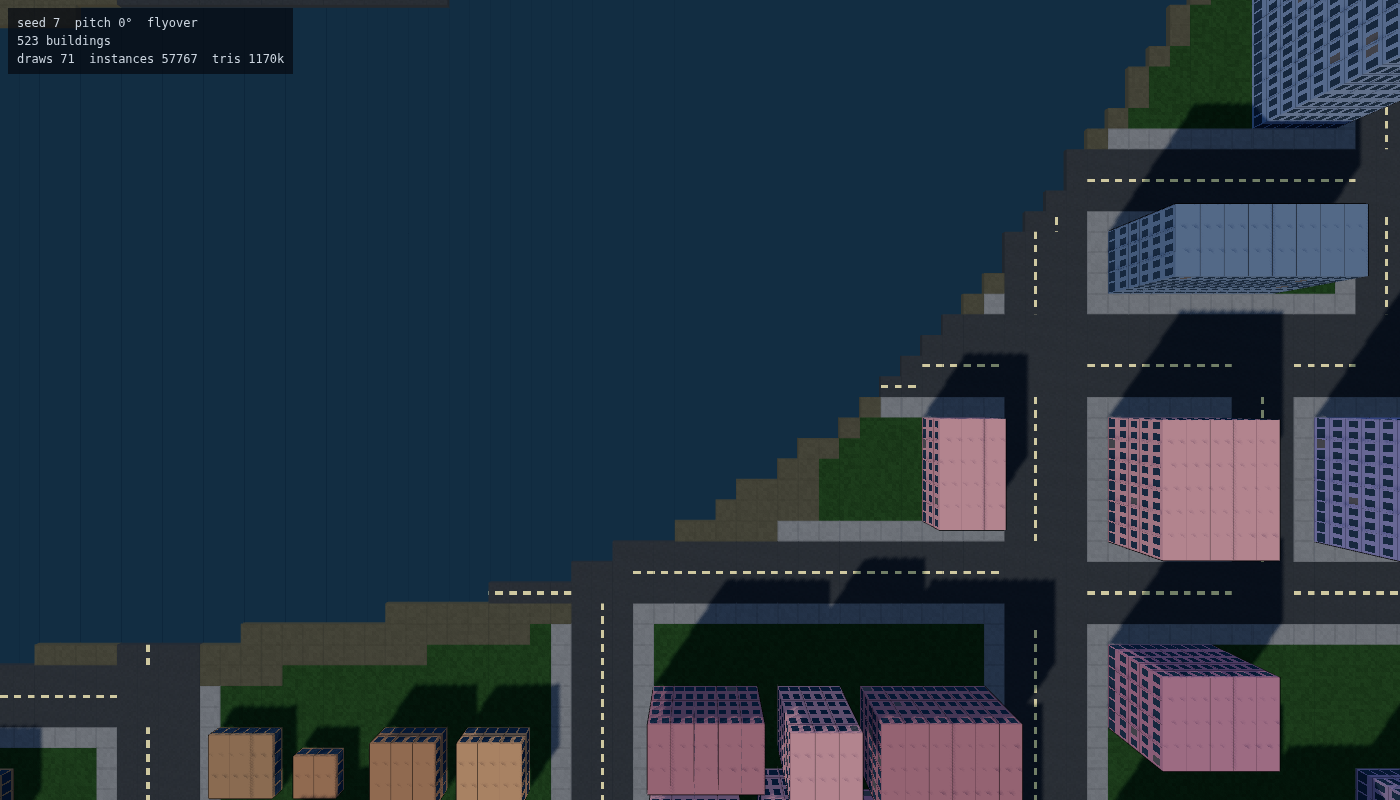
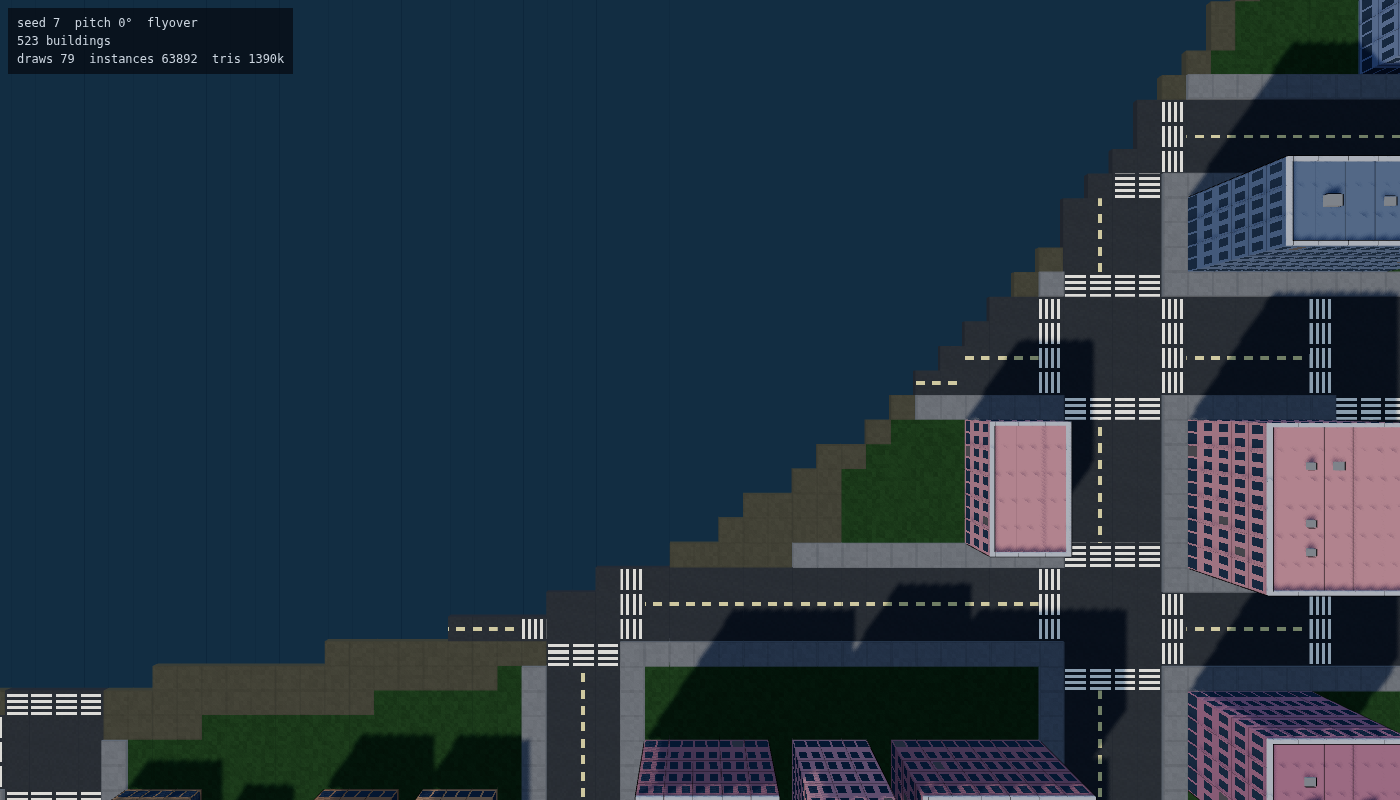
3D: the detail pass — parapets, roof clutter, kerbs, crossings
From a camera hanging straight down, roofs are most of what you see of a
building, and a flat coloured rectangle is where a city stops looking built.
That was the biggest remaining gap. Three things closed it.

PARAPETS. A lip around every roof, on the sides with a non-building neighbour
only, so a block is rimmed at its outline rather than gridded tile by tile.
Real geometry, ~6k instances in one draw. Does more for how a building reads
than anything else here.

ROOFTOP CLUTTER. Plant units, vents and hatches on INTERIOR roof tiles at
hash2(tx,ty,61) against the same thresholds the 2D roof painter uses.
Interior-only is what stops an air-conditioning unit hanging over the street.

KERBS. Pavement stands 3px above the carriageway — and this went into
volume.ts rather than the renderer, because it is real. It sits inside every
mover's step-up allowance so nobody is stopped by it, and it is the surface a
car mounting the pavement actually climbs. It is also what makes a street read
as a street instead of a coloured stripe.

CROSSINGS. Zebra stripes on road tiles approaching a junction, anchored to
junctions — road wide on both axes — rather than to kerbs. A kerb test stripes
the whole length of every street instead of its mouth, because every kerbside
tile touches a pavement.

Worth recording: the first crossing function returned 0 on every path. It
typechecked, it rendered, and it did nothing — dead code in a render path
[…]

diff --git a/client/src/three/cityView.ts b/client/src/three/cityView.ts
@@ -7,6 +7,7 @@ import {
   type VolumeGrid,
 } from 'shared';
 import palette from 'shared/data/palette.json';
+import { hash2 } from '../render/noise.js';
 import { addOutline, toonMaterial } from './toon.js';
 import { facadeMaterial, groundMaterial, roadMaterial, setFacadeNight } from './facade.js';
 
@@ -175,6 +176,38 @@ export class CityView {
       const t = this.map.tiles[ty * W + tx] as number;
       return t === 1 || t === 7 || t === 13;
     };
+    /** Carriageway width and length through a tile, both axes. */
+    const runs = (tx: number, ty: number): [number, number] => {
+      let up = 0;
+      let down = 0;
+      let left = 0;
+      let right = 0;
+      while (isRoad(tx, ty - up - 1) && up < 12) up++;
+      while (isRoad(tx, ty + down + 1) && down < 12) down++;
+      while (isRoad(tx - left - 1, ty) && left < 12) left++;
+      while (isRoad(tx + right + 1, ty) && right < 12) right++;
+      return [up + down + 1, left + right + 1];
+    };
+    /** Wide both ways: where two streets actually meet. */
+    const isJunction = (tx: number, ty: number): boolean => {
+      if (!isRoad(tx, ty)) return false;
+      const [runV, runH] = runs(tx, ty);
+      return runV > 6 && runH > 6;
+    };
+    /**
+     * Crossings, on the road tiles that approach a junction.
+     *
+     * Returns 1 for stripes across an east-west street, 2 across a
+     * north-south one. Anchored to junctions rather than to kerbs: every
+     * kerbside tile touches a pavement, so a kerb test would stripe the whole
+     * length of every street instead of its mouth.
+     */
+    const crossing = (tx: number, ty: number): number => {
+      if (!isRoad(tx, ty) || isJunction(tx, ty)) return 0;
+      if (isJunction(tx - 1, ty) || isJunction(tx + 1, ty)) return 1;
+      if (isJunction(tx, ty - 1) || isJunction(tx, ty + 1)) return 2;
+      return 0;
+    };
     /** 0 plain, 1 centre line along x, 2 centre line along y. */
     const roadMark = (tx: number, ty: number): number => {
       if (!isRoad(tx, ty)) return 0;
@@ -229,6 +262,9 @@ export class CityView {
       return list;
     };
 
+    /** Roof height per tile, filled as the grid is walked. */
+    const heightAt = new Float64Array(W * H);
+
     const m = new THREE.Matrix4();
     for (let ty = 0; ty < H; ty++) {
       for (let tx = 0; tx < W; tx++) {
@@ -249,8 +285,14 @@ export class CityView {
           color = (LAYERS[k] as Layer).color;
           solid = k === 'deck';
           if (k === 'road') {
-            const mark = roadMark(tx, ty);
-            if (mark) key = mark === 1 ? 'roadMarkX' : 'roadMarkY';
+            // A road tile touching a pavement across its short axis is the
+            // mouth of a junction — where a crossing goes.
+            const cross = crossing(tx, ty);
+            if (cross) key = cross === 1 ? 'crossX' : 'crossY';
+            else {
+              const mark = roadMark(tx, ty);
+              if (mark) key = mark === 1 ? 'roadMarkX' : 'roadMarkY';
+            }
           }
         }
         const list = bucket(key, color, solid);
@@ -273,9 +315,12 @@ export class CityView {
             (span.top * Z_SCALE) - h / 2,
           );
           list.push(m.clone());
+          if (tile === 3) heightAt[idx] = span.top * Z_SCALE;
         }
       }
     }
+
+    this.buildRoofDetail(buildingOf, heightAt);
 
     const box = new THREE.BoxGeometry(1, 1, 1);
     for (const [key, mats] of buckets) {
@@ -294,6 +339,10 @@ export class CityView {
               ? roadMaterial(color, 1)
               : key === 'roadMarkY'
                 ? roadMaterial(color, 2)
+                : key === 'crossX'
+                  ? roadMaterial(color, 3)
+                  : key === 'crossY'
+                    ? roadMaterial(color, 4)
                 : key === 'grass'
                   ? groundMaterial(color, 0.20)
                   : key === 'pavement'
@@ -328,6 +377,93 @@ export class CityView {
     // flats at night from a silhouette into somewhere people live.
     setFacadeNight(this.scene, t);
     this.night = t;
+  }
+
+  /**
+   * Parapets and rooftop clutter.
+   *
+   * From a camera hanging straight over the city, roofs are most of what you
+   * see of a building — and a flat coloured rectangle is where a city stops
+   * looking built. The 2D tile layer already knows this: it draws a bright
+   * lip along the sun-facing roof edges, a dark one along the others, and
+   * scatters units, vents and hatches across the interior. Same idea here, as
+   * real geometry, from the same hash and the same thresholds.
+   *
+   * A parapet goes on every roof tile with a non-building neighbour, on that
+   * side only, so a block of buildings is rimmed at its outline rather than
+   * gridded tile by tile. Clutter goes only on interior tiles, which is what
+   * stops an air-conditioning unit hanging over the street.
+   */
+  private buildRoofDetail(buildingOf: Int32Array, heightAt: Float64Array): void {
+    const W = this.map.widthTiles;
+    const H = this.map.heightTiles;
+    const T = TILE_SIZE;
+    const isBuilding = (tx: number, ty: number): boolean =>
+      tx >= 0 && ty >= 0 && tx < W && ty < H && this.map.tiles[ty * W + tx] === 3;
+
+    const parapets: THREE.Matrix4[] = [];
+    const clutter: THREE.Matrix4[] = [];
+    const m = new THREE.Matrix4();
+    const LIP_H = 3.2;
+    const LIP_W = 2.4;
+
+    for (let ty = 0; ty < H; ty++) {
+      for (let tx = 0; tx < W; tx++) {
+        const idx = ty * W + tx;
+        if (this.map.tiles[idx] !== 3) continue;
+        const top = heightAt[idx] as number;
+        if (top <= 0) continue;
+        const cx = (tx + 0.5) * T;
+        const cy = (ty + 0.5) * T;
+
+        const openN = !isBuilding(tx, ty - 1);
+        const openS = !isBuilding(tx, ty + 1);
+        const openW = !isBuilding(tx - 1, ty);
+        const openE = !isBuilding(tx + 1, ty);
+
+        const lip = (x: number, y: number, w: number, d: number): void => {
+          m.makeScale(w, d, LIP_H);
+          m.setPosition(x, y, top + LIP_H / 2);
+          parapets.push(m.clone());
+        };
+        if (openN) lip(cx, cy - T / 2 + LIP_W / 2, T, LIP_W);
+        if (openS) lip(cx, cy + T / 2 - LIP_W / 2, T, LIP_W);
+        if (openW) lip(cx - T / 2 + LIP_W / 2, cy, LIP_W, T);
+        if (openE) lip(cx + T / 2 - LIP_W / 2, cy, LIP_W, T);
+
+        // Interior only — same rule and same salt the 2D roof painter uses.
+        if (openN || openS || openE || openW) continue;
+        const roll = hash2(tx, ty, 61);
+        if (roll > 0.86) {
+          m.makeScale(T * 0.5, T * 0.38, 6);
+          m.setPosition(cx, cy, top + 3);
+          clutter.push(m.clone());
+        } else if (roll > 0.74) {
+          m.makeScale(T * 0.25, T * 0.25, 4);
+          m.setPosition(cx, cy, top + 2);
+          clutter.push(m.clone());
+        } else if (roll > 0.68) {
+          m.makeScale(T * 0.36, T * 0.3, 2);
+          m.setPosition(cx, cy, top + 1);
+          clutter.push(m.clone());
+        }
+      }
+    }
+
+    const box = new THREE.BoxGeometry(1, 1, 1);
+    const add = (mats: THREE.Matrix4[], color: number, outline: number): void => {
+      if (mats.length === 0) return;
+      const mesh = new THREE.InstancedMesh(box, toonMaterial(color), mats.length);
+      mesh.castShadow = true;
+      mesh.receiveShadow = true;
+      mats.forEach((mm, i) => mesh.setMatrixAt(i, mm));
+      mesh.instanceMatrix.needsUpdate = true;
+      this.instanceCount += mats.length;
+      this.scene.add(mesh);
+      addOutline(mesh, this.scene, outline);
+    };
+    add(parapets, hex(palette.roofEdgeLight ?? '#9aa0aa'), 0.4);
+    add(clutter, hex(palette.roofUnit ?? '#6b7079'), 0.5);
   }
 
   resize(width: number, height: number): void {

diff --git a/shared/src/world/volume.ts b/shared/src/world/volume.ts
@@ -2,6 +2,7 @@ import {
   T_BRIDGE,
   T_BUILDING,
   T_RAMP,
+  T_SIDEWALK,
   T_TREES,
   T_WATER,
   TILE_SIZE,
@@ -51,6 +52,15 @@ export const BRIDGE_DECK_THICKNESS = 6;
 export const RAMP_Z = 12;
 /** Trees are solid to a mover but not to a helicopter passing overhead. */
 export const TREE_Z = 36;
+/**
+ * Kerb height: how far the pavement stands above the carriageway.
+ *
+ * Real, not decorative. It is inside every mover's step-up allowance so
+ * nobody is stopped by it, but it is what makes a street read as a street
+ * rather than as a coloured stripe, and it is the surface a car mounting the
+ * pavement actually climbs.
+ */
+export const KERB_Z = 3;
 
 export interface Span {
   bottom: number;
@@ -260,9 +270,12 @@ function columnFor(map: CityMap, i: number, buildingZ: number): { spans: Span[];
     case T_RAMP:
       return { spans: [{ bottom: EARTH, top: RAMP_Z }], ground: RAMP_Z };
 
+    case T_SIDEWALK:
+      return { spans: [{ bottom: EARTH, top: KERB_Z }], ground: KERB_Z };
+
     default:
-      // Road, sidewalk, park, lot, sand, runway, shop floor, field: street
-      // level, walkable, open sky.
+      // Road, park, lot, sand, runway, shop floor, field: street level,
+      // walkable, open sky.
       return { spans: [{ bottom: EARTH, top: 0 }], ground: 0 };
   }
 }

diff --git a/client/src/three/facade.ts b/client/src/three/facade.ts
@@ -217,7 +217,14 @@ export function roadMaterial(color: number, mark: number, lineColor = 0xd8cf94):
            // Grain first, so the marking sits on the tarmac rather than under.
            float grain = road_hash(floor(vWorld.xy * 0.7));
            diffuseColor.rgb *= 0.95 + grain * 0.10;
-           if (uMark > 0.5) {
+           if (uMark > 2.5) {
+             // Crossing: stripes across the carriageway at a junction mouth.
+             vec2 t = vWorld.xy / uTile;
+             float bars = uMark < 3.5 ? fract(t.x * 4.0) : fract(t.y * 4.0);
+             float band = uMark < 3.5 ? abs(fract(t.y) - 0.5) : abs(fract(t.x) - 0.5);
+             float zebra = (1.0 - step(0.5, bars)) * (1.0 - step(0.42, band));
+             diffuseColor.rgb = mix(diffuseColor.rgb, vec3(0.86, 0.86, 0.82), zebra * 0.8);
+           } else if (uMark > 0.5) {
              vec2 t = vWorld.xy / uTile;
              // Across the lane: how far from the tile centre, 0 at the middle.
              float across = uMark < 1.5 ? abs(fract(t.y) - 0.5) : abs(fract(t.x) - 0.5);

diff --git a/3D.md b/3D.md
@@ -312,7 +312,41 @@ Plus the frame itself: ACES filmic tone mapping instead of the linear default,
 so sunlit roofs stop clipping to flat white and the cel bands stop reading as
 posterisation; MSAA on; device pixel ratio honoured.
 
-Cost of the whole dressing pass: 165 draws, 2.9M triangles.
+Cost of the dressing pass: 165 draws, 2.9M triangles.
+
+### The detail pass
+
+From a camera hanging straight down, **roofs are most of what you see of a
+building**, and a flat coloured rectangle is where a city stops looking built.
+That is the single biggest detail gap this view had, and three things closed
+it.
+
+**Parapets.** A lip around every roof, on the sides with a non-building
+neighbour only — so a block is rimmed at its outline rather than gridded tile
+by tile. Real geometry, ~6k instances in one draw. This does more for how a
+building reads than anything else in the pass.
+
+**Rooftop clutter.** Plant units, vents and hatches scattered on *interior*
+roof tiles at `hash2(tx, ty, 61)` against the same thresholds the 2D roof
+painter uses. Interior-only is what stops an air-conditioning unit hanging
+over the street.
+
+**Kerbs** (`KERB_Z` in `volume.ts`). Pavement stands 3 px above the
+carriageway. Put in the volume model rather than the renderer because it is
+real: it is inside every mover's step-up allowance so nobody is stopped by it,
+and it is the surface a car mounting the pavement actually climbs. It is also
+what makes a street read as a street instead of a coloured stripe.
+
+**Crossings.** Zebra stripes on the road tiles approaching a junction.
+Anchored to junctions — road wide on both axes — rather than to kerbs, because
+every kerbside tile touches a pavement and a kerb test stripes the whole
+length of every street instead of its mouth. The first version of this
+function returned 0 on every path, which is worth recording: dead code that
+typechecks and renders nothing looks exactly like a feature that is switched
+off.
+
+Cost of the detail pass on top: 179 draws, 3.2M triangles with the live
+population.
 
 **Why Three.js and not React Three Fiber.** R3F's value is a declarative scene
 graph reconciled against React state. This codebase has no React, and its

diff --git a/evidence/README.md b/evidence/README.md
@@ -32,8 +32,9 @@ Quote draw calls from these, not frame rate: this box has no GPU, so its frame
 rate is SwiftShader's and says nothing about a real machine, while draw count
 is a property of how the scene is built and is the same everywhere. Bare
 geometry is **9 draws / 762k triangles** for the whole 240×240 city; dressed —
-facades, planting, props, markings, the live population — it is **165 draws /
-2.9M triangles**. See 3D.md W3a.
+facades, planting, props, markings, roof parapets and clutter, kerbs,
+crossings and the live population — it is **179 draws / 3.2M triangles**.
+See 3D.md W3a.
 
 ## Buildings that lean
 
